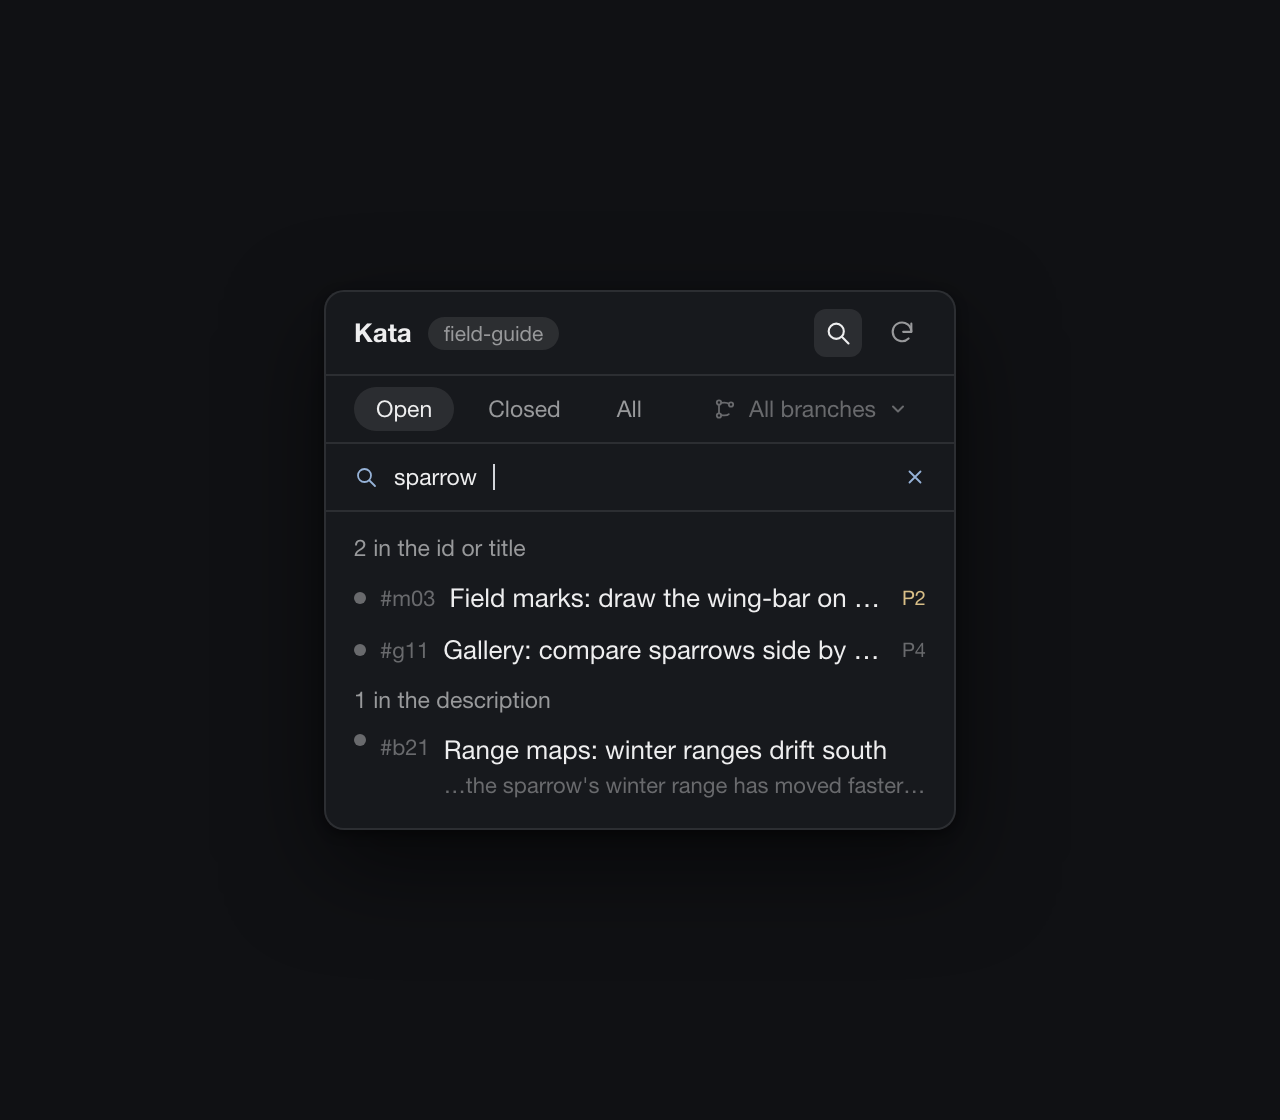
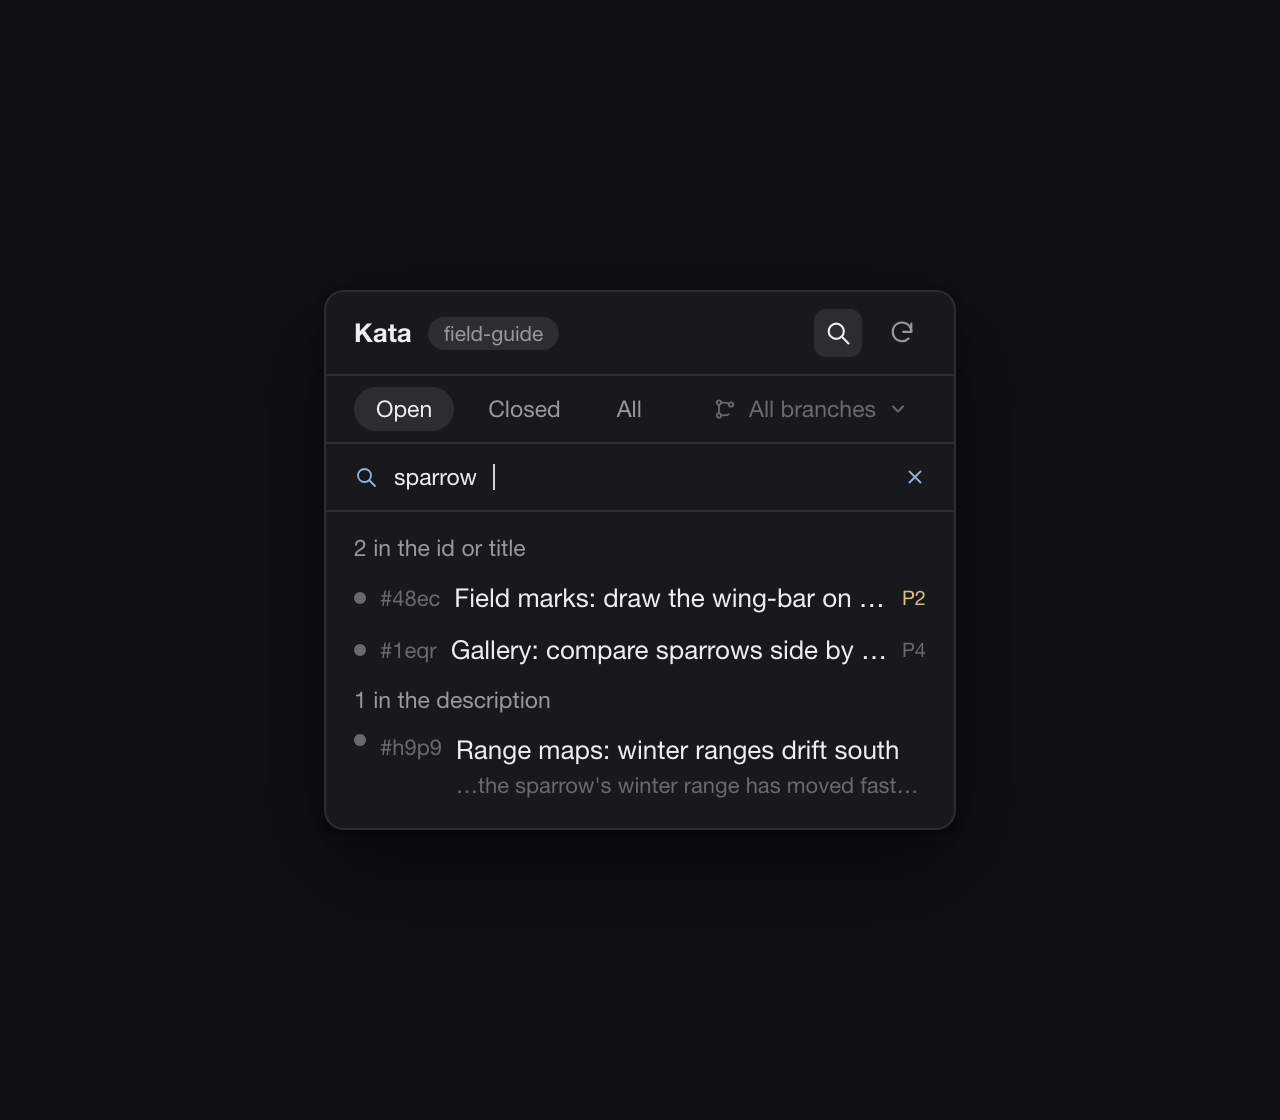
kata: one fictional cast across the drawn and photographed previews

Changed region(s): [[0.3125, 0.6562, 0.7188, 0.7188], [0.3125, 0.5312, 0.6875, 0.5938]]

diff --git a/assets/preview.html b/assets/preview.html
@@ -37,6 +37,7 @@
   .wordmark { display: flex; align-items: center; gap: 10px; height: 24px; }
   .wordmark .dots { display: flex; gap: 7px; }
   .wordmark .dots i { width: 11px; height: 11px; border-radius: 50%; background: var(--raised); }
+  .wordmark .dots i:last-child { background: var(--accent); }
   .wordmark .name { font-size: 16px; font-weight: 650; letter-spacing: 0.01em; color: var(--fg); }
   .wordmark .tag { font-size: 15px; color: var(--muted); }
   h1 {
@@ -223,13 +224,15 @@
       <div class="terminal">
         <span class="p1">~/demo/field-guide</span> <span class="faint">on</span> <span class="p2">main</span>
         <div class="tui">
-          <div class="row hd"><span>field-guide · 11 open</span></div>
-          <div class="row"><span>▸</span><span class="ref">jydf</span><span>Migration map: seasonal ranges go blank</span><span class="pr p1">P1</span></div>
-          <div class="row"><span class="faint">└─</span><span class="ref">dcrz</span><span>Sightings list: group by week, not by day</span><span class="pr p2">P2</span></div>
+          <div class="row hd"><span>field-guide · 12 open</span></div>
+          <div class="row"><span>▾</span><span class="ref">jydf</span><span>Migration map: seasonal ranges go blank</span><span class="pr p1">P1</span></div>
+          <div class="row"><span class="faint">├─</span><span class="ref">dcrz</span><span>Sightings list: group by week, not by day</span><span class="pr p2">P2</span></div>
           <div class="row"><span class="faint">└─</span><span class="ref">48ec</span><span>Field marks: draw the wing-bar on every sparrow plate</span><span class="pr p2">P2</span></div>
           <div class="row"><span>▸</span><span class="ref">gtac</span><span>Offline packs: plan trips without a signal</span><span class="pr">P3</span></div>
           <div class="row"><span>▸</span><span class="ref">0fsc</span><span>Accessibility: label plates for screen readers</span><span class="pr p2">P2</span></div>
           <div class="row"><span>&nbsp;</span><span class="ref">n9td</span><span>Audio notes: scrub a clip before sharing it</span><span class="pr">P4</span></div>
+          <div class="row"><span>&nbsp;</span><span class="ref">h9p9</span><span>Range maps: winter ranges drift south</span></div>
+          <div class="row"><span>&nbsp;</span><span class="ref">1eqr</span><span>Gallery: compare sparrows side by side</span><span class="pr">P4</span></div>
           <div class="row hd"><span class="faint">the same issues, in the terminal — kata tui</span></div>
         </div>
       </div>
@@ -257,28 +260,28 @@
           <div class="row" style="padding-left:8px">
             <span class="chev"><svg width="11" height="11" viewBox="0 0 24 24" fill="none" stroke="currentColor" stroke-width="2.4" stroke-linecap="round" stroke-linejoin="round"><path d="M6 9l6 6 6-6"/></svg></span>
             <span class="mark"></span>
-            <span class="ref">#h21a</span>
+            <span class="ref">#jydf</span>
             <span class="text">Migration map: seasonal ranges go blank</span>
             <span class="pr p1">P1</span>
           </div>
           <div class="row" style="padding-left:22px">
             <span class="pad"></span>
             <span class="mark blocked"></span>
-            <span class="ref">#m02</span>
+            <span class="ref">#dcrz</span>
             <span class="text">Sightings list: group by week, not by day</span>
             <span class="pr p2">P2</span>
           </div>
           <div class="row" style="padding-left:22px">
             <span class="pad"></span>
             <span class="mark"></span>
-            <span class="ref">#m03</span>
+            <span class="ref">#48ec</span>
             <span class="text">Field marks: draw the wing-bar on every sparrow plate</span>
             <span class="pr p2">P2</span>
           </div>
           <div class="row" style="padding-left:8px">
             <span class="chev"><svg width="11" height="11" viewBox="0 0 24 24" fill="none" stroke="currentColor" stroke-width="2.4" stroke-linecap="round" stroke-linejoin="round"><path d="M9 6l6 6-6 6"/></svg></span>
             <span class="mark"></span>
-            <span class="ref">#p10</span>
+            <span class="ref">#gtac</span>
             <span class="text">Offline packs: plan trips without a signal</span>
             <span class="count">+2</span>
             <span class="pr low">P3</span>
@@ -286,7 +289,7 @@
           <div class="row" style="padding-left:8px">
             <span class="chev"><svg width="11" height="11" viewBox="0 0 24 24" fill="none" stroke="currentColor" stroke-width="2.4" stroke-linecap="round" stroke-linejoin="round"><path d="M9 6l6 6-6 6"/></svg></span>
             <span class="mark"></span>
-            <span class="ref">#g08</span>
+            <span class="ref">#0fsc</span>
             <span class="text">Accessibility: label plates for screen readers</span>
             <span class="count">+2</span>
             <span class="pr p2">P2</span>
@@ -294,8 +297,21 @@
           <div class="row" style="padding-left:8px">
             <span class="pad"></span>
             <span class="mark"></span>
-            <span class="ref">#t06</span>
+            <span class="ref">#n9td</span>
             <span class="text">Audio notes: scrub a clip before sharing it</span>
+            <span class="pr low">P4</span>
+          </div>
+          <div class="row" style="padding-left:8px">
+            <span class="pad"></span>
+            <span class="mark"></span>
+            <span class="ref">#h9p9</span>
+            <span class="text">Range maps: winter ranges drift south</span>
+          </div>
+          <div class="row" style="padding-left:8px">
+            <span class="pad"></span>
+            <span class="mark"></span>
+            <span class="ref">#1eqr</span>
+            <span class="text">Gallery: compare sparrows side by side</span>
             <span class="pr low">P4</span>
           </div>
         </div>

diff --git a/assets/panel-search.html b/assets/panel-search.html
@@ -92,7 +92,7 @@
   .search svg { flex: none; color: var(--accent); }
   .search .q { font-size: 11.5px; color: var(--fg); }
   .search .cursor { width: 1px; height: 13px; background: var(--tfg); }
-  .search .x { margin-left: auto; color: var(--muted); }
+  .search .x { margin-left: auto; color: var(--dim); }
 
   .rows { padding: 6px 6px 10px; }
   .group {
@@ -152,20 +152,20 @@
       <div class="group">2 in the id or title</div>
       <div class="row">
         <span class="mark"></span>
-        <span class="ref">#m03</span>
+        <span class="ref">#48ec</span>
         <span class="text">Field marks: draw the wing-bar on every sparrow plate</span>
         <span class="pr p2">P2</span>
       </div>
       <div class="row">
         <span class="mark"></span>
-        <span class="ref">#g11</span>
+        <span class="ref">#1eqr</span>
         <span class="text">Gallery: compare sparrows side by side</span>
         <span class="pr low">P4</span>
       </div>
       <div class="group">1 in the description</div>
       <div class="row desc">
         <span class="mark"></span>
-        <span class="ref">#b21</span>
+        <span class="ref">#h9p9</span>
         <span class="wrap">
           <span class="text">Range maps: winter ranges drift south</span>
           <span class="line">…the sparrow's winter range has moved faster than the atlas records…</span>

diff --git a/RECIPE.md b/RECIPE.md
@@ -24,13 +24,14 @@ fill, a 1 px `border`, at 13 px in `foreground`:
 Kata  [field-guide]                       🔍 ⤢ ↻
 [Open] [Closed] [All]          [ All branches ▾ ]
 ────────────────────────────────────────────────
-▸ #h21a  Migration map: seasonal ranges go…    P1 +4
-   ● #m02  Sightings list: group by week, n…  P2
-   ● #m03  Field marks: draw the wing-bar o…  P2
-▾ #p10  Offline packs: plan trips without a…  P3
-   ● #p11  Offline packs: download counties…  P3
-   ● #p12  Offline packs: delete packs the…   P4
-▸ #g08  Accessibility: label plates for sc…  P2 +2
+▾ #jydf  Migration map: seasonal ranges go…   P1
+   ● #dcrz  Sightings list: group by week, …  P2
+   ● #48ec  Field marks: draw the wing-bar …  P2
+▸ #gtac  Offline packs: plan trips without…    P3 +2
+▸ #0fsc  Accessibility: label plates for…    P2 +2
+   ● #n9td  Audio notes: scrub a clip before… P4
+   ● #h9p9  Range maps: winter ranges drift…
+   ● #1eqr  Gallery: compare sparrows side…   P4
 ```
 
 **Header**, 42 px, 14 px side padding, a 1 px bottom border:
@@ -134,9 +135,9 @@ to search.
 
 - **What it matches**: a substring, case-insensitive, anywhere in an issue's
   id, title, or body — the three strings `kata list --json` already carries,
-  so a search is one pass over the rows in hand and never a read. `nfe7` and
-  `#nfe7` both name `#nfe7`, and a query with a `#` inside it may name the
-  qualified id (`paparazzi#nfe7`). No fuzzy matching, no ranking by distance:
+  so a search is one pass over the rows in hand and never a read. `48ec` and
+  `#48ec` both name `#48ec`, and a query with a `#` inside it may name the
+  qualified id (`field-guide#48ec`). No fuzzy matching, no ranking by distance:
   a typo finds nothing.
 - **The id and the title come first.** Results are drawn in two groups, `N in
   the id or title` and then `N in the description`, so the rows the query
@@ -160,7 +161,7 @@ to search.
   branch filters made rather than reaching around them, so the read stays one
   read and the counts stay the filters' own. A search that finds nothing says
   what it looked at — `Searched the open issues — Closed and All search the
-  rest.`, or `Searched every issue on feat/recall.` — instead of declaring
+  rest.`, or `Searched every issue on feat/migration-map.` — instead of declaring
   the task gone, and while the status is not **All** it offers the one click
   that widens the search: a `Search all statuses` row, a magnifier and 11.5 px
   `muted`, hovered like a row of the tree. It is the same shortcut the tree's
@@ -204,7 +205,7 @@ thing.
   row**: same 26 px row, same fold chevron, `muted` title, and a tooltip saying
   why it is there. Context rows are not counted as tasks of the read — the
   branch counts and the read count are the filter's own — so the tree shows
-  `#p10 Offline packs: plan trips without a signal +5` above the five tasks
+  `#gtac Offline packs: plan trips without a signal +2` above the two tasks
   that belong to it without pretending the parent is on that branch. A parent
   whose own parent is out of the read pulls that one in too, so the chain to
   the top is whole. Two tasks each claiming the other as parent — the data can
@@ -232,7 +233,7 @@ row with the two ways out of it:
 - **`‹ #ref title`** — back one step along the trail, naming the issue it
   returns to. A chain of refs is easy to follow and hard to remember, so back
   says where it goes, and its tooltip adds how many steps are behind that one
-  (`Back to #m02 — Sightings list: group by week (1 more behind it)`). On the
+  (`Back to #dcrz — Sightings list: group by week (1 more behind it)`). On the
   first issue opened from the tree there is nothing behind it, so the same
   button reads `‹ All issues` and shows the tree: a "back" that goes where
   "all issues" goes is one button, not two.
@@ -552,7 +553,7 @@ Nothing to wire, no layout to edit: the wiring is tab-host's, and it belongs to
 it.
 
 Then, live in Herdr, against a scratch kata project (a throwaway git repo with
-`kata init` and made-up issues — a parent with five tasks, one blocked task,
+`kata init` and made-up issues — a parent with two tasks, one blocked task,
 one closed task, tasks on two branches):
 
 - **The tree.** The parent folds and unfolds, `+N` counts every task under it,
@@ -584,8 +585,8 @@ one closed task, tasks on two branches):
   any depth.
 - **The search.** The magnifier opens the field and puts the keyboard on it; a
   word from a title draws `N in the id or title` above `N in the description`,
-  the description hits each carrying the line that matched; `6ark` finds by id
-  and `#6ark` the same, and a query is case-insensitive either way. A status
+  the description hits each carrying the line that matched; `h9p9` finds by id
+  and `#h9p9` the same, and a query is case-insensitive either way. A status
   pill is a different read, not a different search: **Closed** with the same
   query searches the closed list. A query that matches nothing says what it
   searched and offers the `Search all statuses` row — gone on **All**. The `×`
